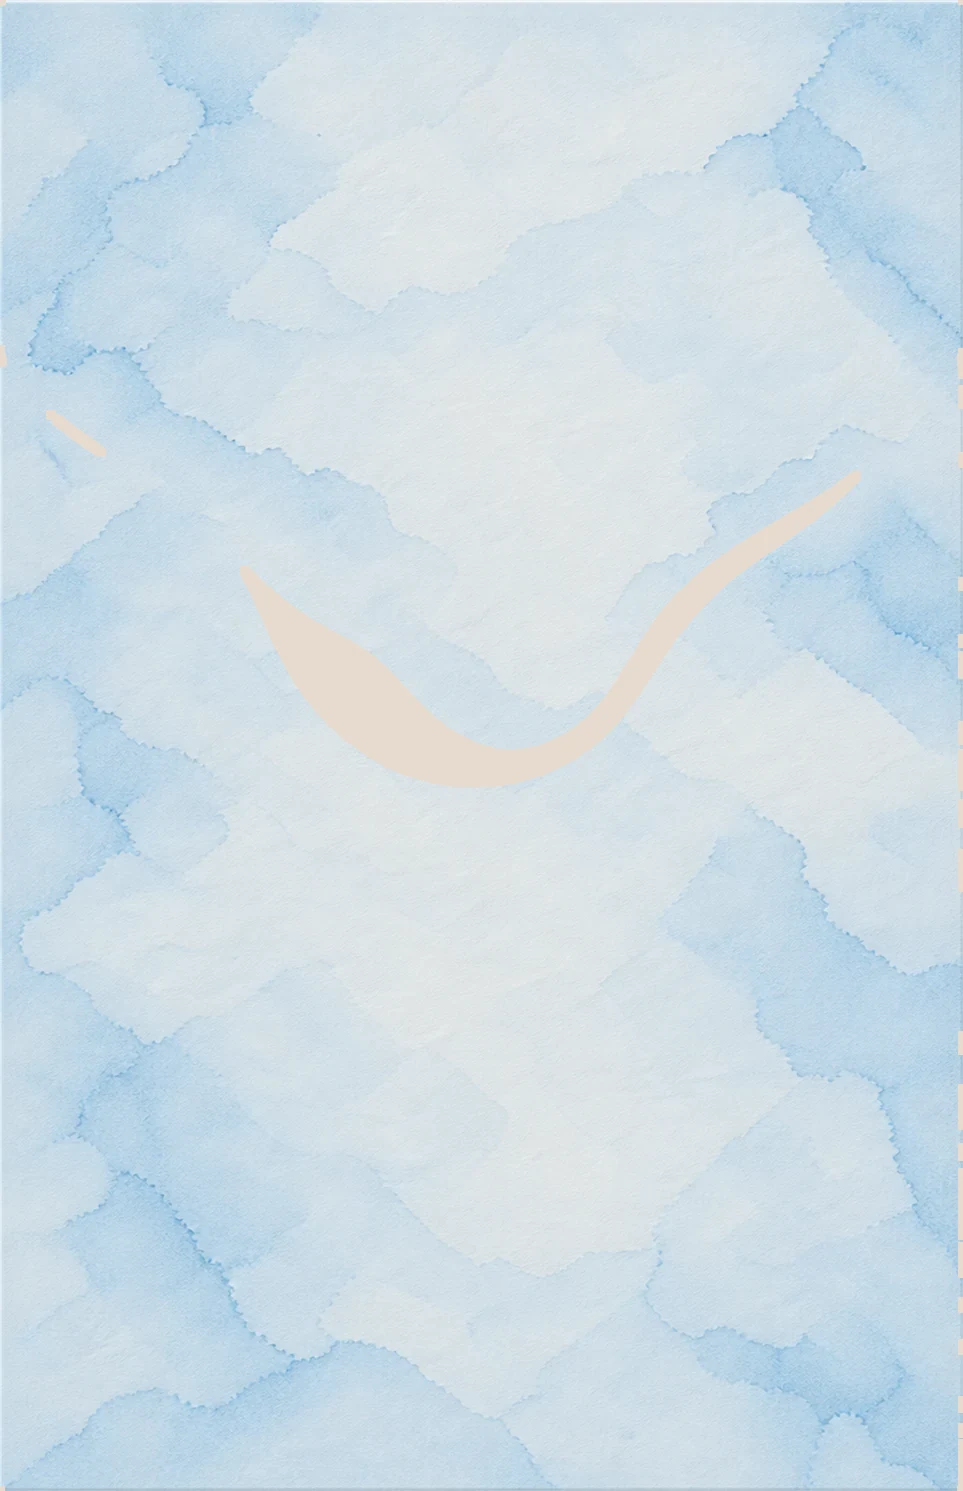
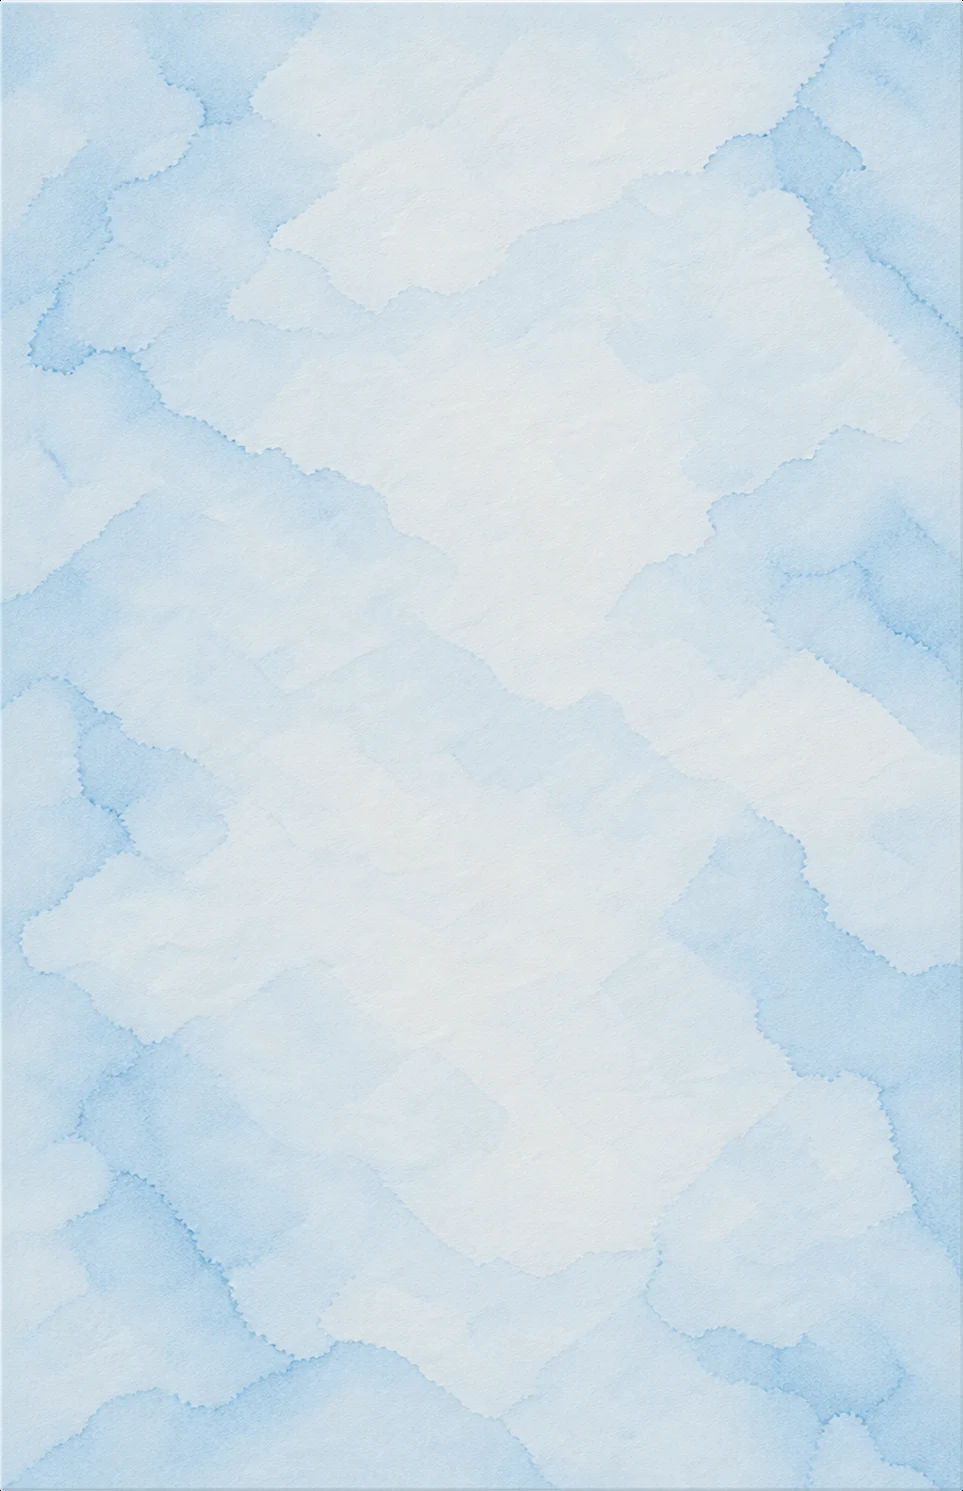
RSVP: upright envelope closes with no gap between flap and pocket
The phone pocket is the third take of the art, its upper band gently
warped (no repainting) so the opening edge sits at least ~2% under the
flap's edge across the whole width. The liner is back to the untouched
painting and the card no longer needs hiding while the envelope is sealed.

diff --git a/src/components/sections/RSVP.tsx b/src/components/sections/RSVP.tsx
@@ -243,9 +243,6 @@ export function RSVP({ guest }: Props) {
   // The card stays behind the pocket until the envelope has fallen away, so
   // stepping in front never covers paper that was in front of it a frame ago.
   const cardZ = useTransform(p, (v) => (v > T.settled - 0.01 ? 7 : 3))
-  // Out of sight while the envelope is sealed, so no white paper shows where
-  // the flap's edge leaves a sliver of the opening uncovered.
-  const cardOpacity = useTransform(p, (v) => (v >= T.flapStart ? 1 : 0))
 
   const box = (width: number, height: number) => ({
     width,
@@ -364,7 +361,6 @@ export function RSVP({ guest }: Props) {
             y: cardY,
             scale: cardScale,
             zIndex: cardZ,
-            opacity: cardOpacity,
           }}
         >
           <motion.div
